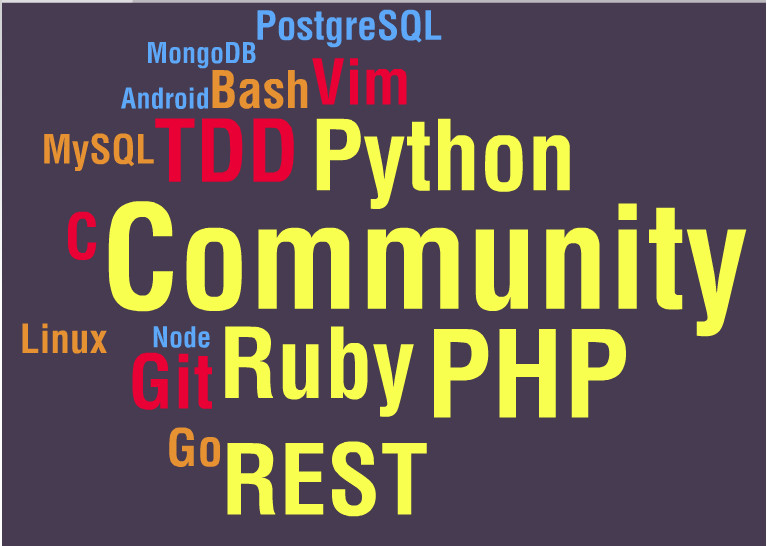
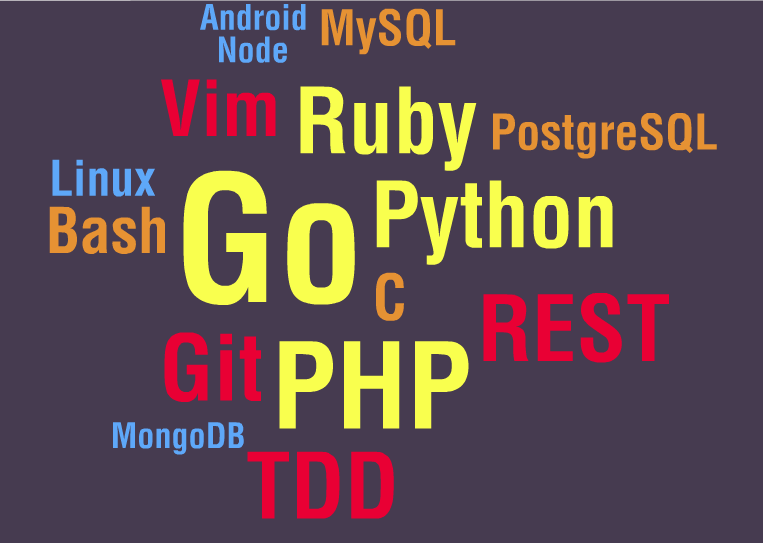
Updating priorities

diff --git a/index.html b/index.html
@@ -12,7 +12,7 @@
     <h1>Jacob Walker</h1>
     <p>
         My name is Jacob Walker. I am a Software Engineer living in Wichita,
-        KS. I am passionate about community, best practices, open source
+        KS. I am passionate about Go, community, best practices, open source
         software, automation, my family, and Vim.
     </p>
     <p><a id="learn-more" class="btn btn-primary btn-lg" href="/about.html">Learn more <i class="icon-double-angle-right"></i></a></p>
